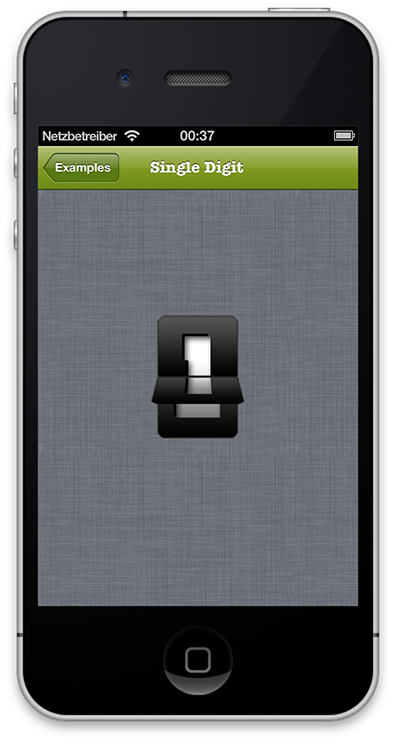
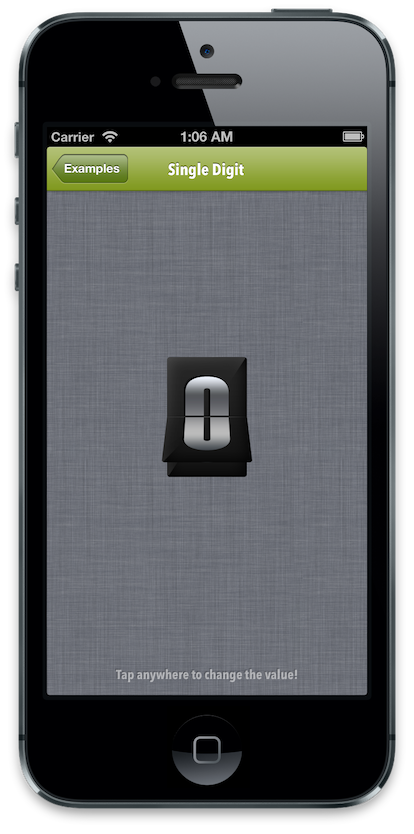
updated screenshots, updated readme

diff --git a/readme.md b/readme.md
@@ -1,61 +1,82 @@
-JDFlipNumberView
-------------------
+JDFlipNumberView 2.0
+-----------------------
 
-See [screenshots](#screenshots) below.
+The FlipNumberView is simulating an analog flip display (like those for the departure time on the airport). It's well abstracted and damn easy to use. Please open a [Github issue], if you think anything is missing or wrong.
 
-The Flip Number View is simulating an analog flip display (like those for the departure time on the airport).
+See [screenshots](#screenshots) of the example project below.  
+If you are using this class, you may list your app on the [wiki page].
 
-It is using CoreAnimation to get the desired effect. It's well abstracted and should be really easy to use. But it still needs some work, so feel free to contribute!
+## Installation
+
+**A) Use CocoaPods** (preferred way, see [cocoapods website])
+
+> 1) add `pod 'JDFlipNumberView'` to your Podfile  
+> 2) run `pod install` 
+
+**B) Manual way** (not needed, if you use cocoapods):
+
+> 1) Add all files from `JDFlipNumberView/JDFlipNumberView/*` to your 
+> project, including the `JDFlipNumberView.bundle`  
+> 2) Link with the `QuartzCore.framework`
 
 ## Contents
 
-You get three classes for different usecases:
+The two main classes are:
 
 - `JDFlipNumberView`  
-  __A single animated digit.__ Range 0-9.
-- `JDGroupedFlipNumberView`  
-  A grouped and chained choosable number of flipviews for higher numbers.  
-  It is using a variable amount of `JDFlipNumberView` instances itself and chains them together.
+  The standard flipNumberView. It shows an integer value as flipView.
+  It has a choosable amount of digits.
 - `JDDateCountdownFlipView`  
-  __A date countdown.__ Just init with a target date and add it as a subview.  
-  It is using four `JDGroupedFlipNumberView` instances itself and chains them together.
+  __A date countdown.__ Just init with a target date and it will show the remaining days, hours, minutes and seconds until that date.
 
-## How to use
+## Usage
 
-Recommend: Use [cocoapods] to install it.  
+In any case, after installing, you only need to follow some simple steps to get started:
 
-(OR add all files from `JDFlipNumberView/JDFlipNumberView/` manually to your project, including the `JDFlipNumberView.bundle`.  
-And you also need to link the `QuartzCore.framework`)
+__Example:__ A 4 digit flipNumberView animating down every second.
 
-In any case, after installing, you only need to follow these three steps, to use it:
-
-> 1. Init the class
-> 2. Set an int value (or a date)
-> 3. Start the animation
-
-__Example:__ A countdown view from 1000 seconds to 0.
-
-    JDGroupedFlipNumberView *flipNumberView = [[JDGroupedFlipNumberView alloc] initWithFlipNumberViewCount: 4];
-    flipNumberView.intValue = 1000;
+    // create a new flipNumberView
+    JDFlipNumberView *flipNumberView = [[JDFlipNumberView alloc] initWithDigitCount:4];
+    // set the start value
+    flipNumberView.value = 1337;
+    // start an animation
     [flipNumberView animateDownWithTimeInterval: 1.0];
     
+    // add to view hierarchy
     [self.view addSubview: flipNumberView];
-    flipNumberView.frame = CGRectMake(10,100,300,100);
+    // set your desired size
+    flipNumberView.frame = CGRectMake(20,100,300,100);
 
-That's it.  
-This will display a working, flipping, animating countdown view!
+That's it. This will display a working, flipping, animating countdown view!
 
-## How to start the animation?
+## Possible animations
 
-Use any of the following methods:
+Basic animations:
 
-    // basic animation
-    - (void) animateToNextNumber;
-    - (void) animateToPreviousNumber;
+    - (void)setValue:(NSInteger)newValue animated:(BOOL)animated;
+    - (void)animateToNextNumber;
+    - (void)animateToPreviousNumber;
+
+Targeted animation over time:
+
+    - (void)animateToValue:(NSInteger)newValue duration:(CGFloat)duration;
     
-    // timed animation
-    - (void) animateUpWithTimeInterval: (NSTimeInterval) timeInterval;
-    - (void) animateDownWithTimeInterval: (NSTimeInterval) timeInterval;
+Timed animation without target value:
+
+    - (void)animateUpWithTimeInterval:(NSTimeInterval)timeInterval;
+    - (void)animateDownWithTimeInterval:(NSTimeInterval)timeInterval;
+
+## Customization
+
+**A) Replace original images**  
+Replace the images within the JDFlipNumberView.bundle. But the next pod install will revert your changes.
+
+**B) Use your own bundle**  
+Add your own graphics bundle with custom graphics. You need one image per digit. `0.png, 1.png, 2.png, etc.`  
+
+Before using any FlipNumberViews, set your own images like this:
+
+    [JD_IMG_FACTORY generateImagesFromBundleNamed:@"yourBundleName"]
 
 ## Screenshots
 
@@ -66,4 +87,7 @@ Use any of the following methods:
 ![Date Countdown](https://raw.github.com/jaydee3/JDFlipNumberView/master/Screenshots/datecountdown.png "Date Countdown")
 
 
-[cocoapods]: https://github.com/CocoaPods/CocoaPods/
+
+[Github issue]: https://github.com/jaydee3/JDFlipNumberView/issues
+[cocoapods website]: http://cocoapods.org
+[wiki page]: https://github.com/jaydee3/JDFlipNumberView/wiki/Apps-using-JDFlipNumberView
